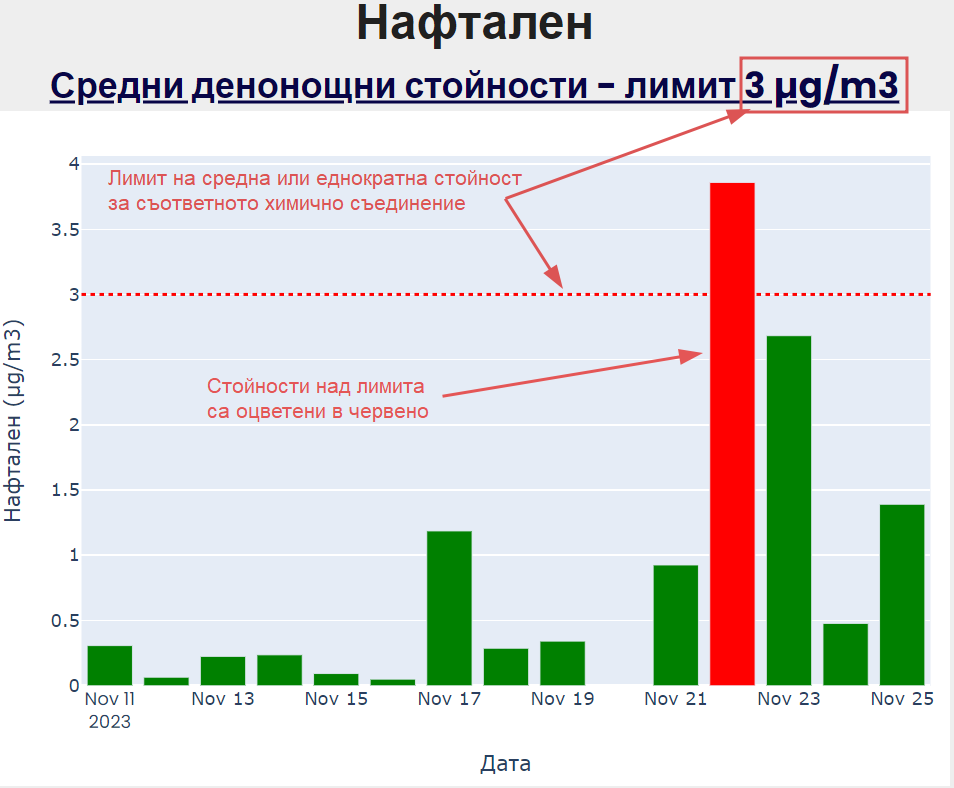
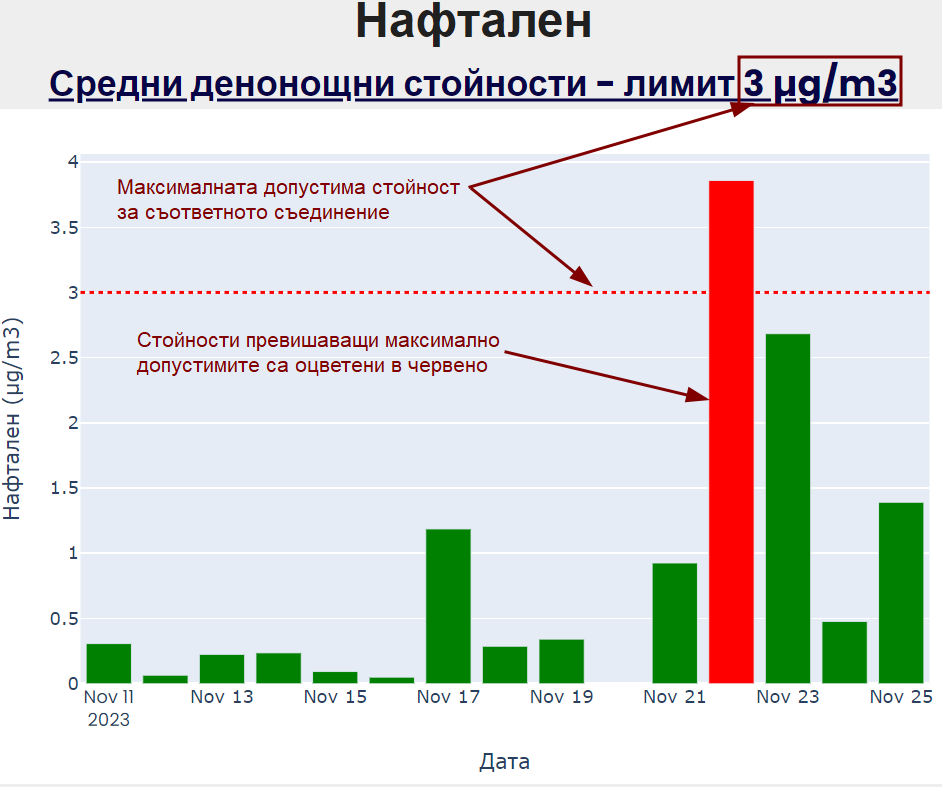
updated help page

diff --git a/templates/help.html b/templates/help.html
@@ -70,9 +70,8 @@
                 </li>
             </ul>
             <p>
-                Следното изображение показва примерна графика, със стойности които са под лимита (отбелязани със
-                зелено),
-                както и една стойност над лимита, отбелязана в червено.
+                Следното изображение показва примерна графика, със стойности които са под допустимия максимум
+                (отбелязани със зелено), както и една стойност над допустимия максимум, отбелязана в червено.
             </p>
             <a href="static/example_graph.png"><img src="static/example_graph.png"></a>
         </div>
